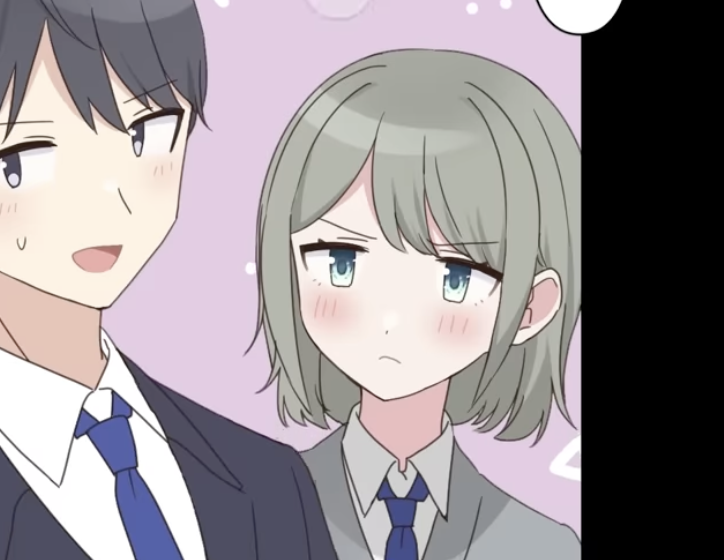
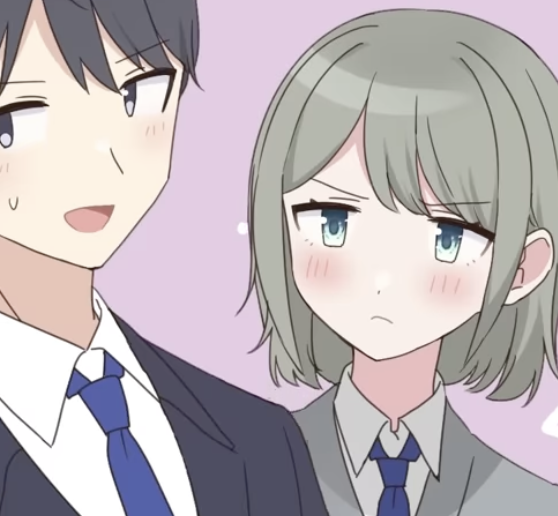
幼馴染イラスト差し替え + artStyle排他指定修正 + 閑話休題contain表示

diff --git a/shared/cards.js b/shared/cards.js
@@ -32,7 +32,7 @@ const CARD_DB=[
 {id:'super_chat',speed:'instant',name:'スーパーチャット',type:'support',subtype:['規約'],cost:1,abilities:['buff_target'],text:'味方+300/+300(ターン終了まで)',copies:3},
 {id:'kikaku_botsu',speed:'sorcery',name:'企画ボツ',type:'support',subtype:['規約'],cost:4,abilities:['destroy_target'],text:'クリーチャー1体破壊',copies:3},
 {id:'seitokaichou',art:'img/seitokaichou.png',name:'生徒会長ヒロイン',type:'creature',subtype:['人間','ヒロイン'],cost:2,power:1,toughness:1,abilities:['vigilance','etb_draw'],text:'油断しない/登場時:1枚ドロー',copies:2},
-{id:'osananajimi',art:'img/osananajimi.png',artStyle:'object-position:70% center;',name:'幼馴染ヒロイン',type:'creature',subtype:['人間','ヒロイン'],cost:2,power:1,toughness:1,abilities:['etb_search_hero'],text:'登場時:主人公サーチ',copies:2},
+{id:'osananajimi',art:'img/osananajimi.png?v=2',artStyle:'object-position:60% center;',name:'幼馴染ヒロイン',type:'creature',subtype:['人間','ヒロイン'],cost:2,power:1,toughness:1,abilities:['etb_search_hero'],text:'登場時:主人公サーチ',copies:2},
 {id:'onna_joushi',art:'img/onna_joushi.png',name:'女上司ヒロイン',type:'creature',subtype:['人間','ヒロイン'],cost:2,power:1,toughness:1,abilities:['vigilance','etb_peek_top'],text:'油断しない/登場時:デッキトップ確認→シャッフル可',copies:2},
 {id:'shiko_touchou',art:'img/shiko_touchou.png',speed:'sorcery',name:'思考盗聴された！',type:'support',subtype:['サポート'],cost:2,abilities:['peek_hand'],text:'相手の手札を見る',copies:2},
 {id:'seishun_kiben',speed:'sorcery',name:'青春詭弁',type:'support',subtype:['クリエイター','ライター'],cost:5,abilities:['free_summon_hero'],text:'手札の主人公/ヒロインを無料召喚',copies:2},

diff --git a/client/cards.html b/client/cards.html
@@ -603,7 +603,7 @@
     <span class="card-name">ジュン</span>
     <span class="card-cost">2</span>
   </div>
-  <div class="card-art"><img src="img/jun.png" style="width:100%;height:100%;object-fit:contain;background:#1a1a2e;"></div>
+  <div class="card-art"><img src="img/jun.png" style="width:100%;height:100%;object-fit:cover;object-position:60% center;"></div>
   <div class="card-type">
     <span class="tag tag-normal">人間</span>
     <span class="tag tag-hero">主人公</span>
@@ -874,7 +874,7 @@
     <span class="card-name">幼馴染ヒロイン</span>
     <span class="card-cost">2</span>
   </div>
-  <div class="card-art"><img src="img/osananajimi.png" style="width:100%;height:100%;object-fit:cover;object-position:70% center;"></div>
+  <div class="card-art"><img src="img/osananajimi.png?v=2" style="width:100%;height:100%;object-fit:cover;object-position:60% center;"></div>
   <div class="card-type">
     <span class="tag tag-normal">人間</span>
     <span class="tag tag-normal">ヒロイン</span>
